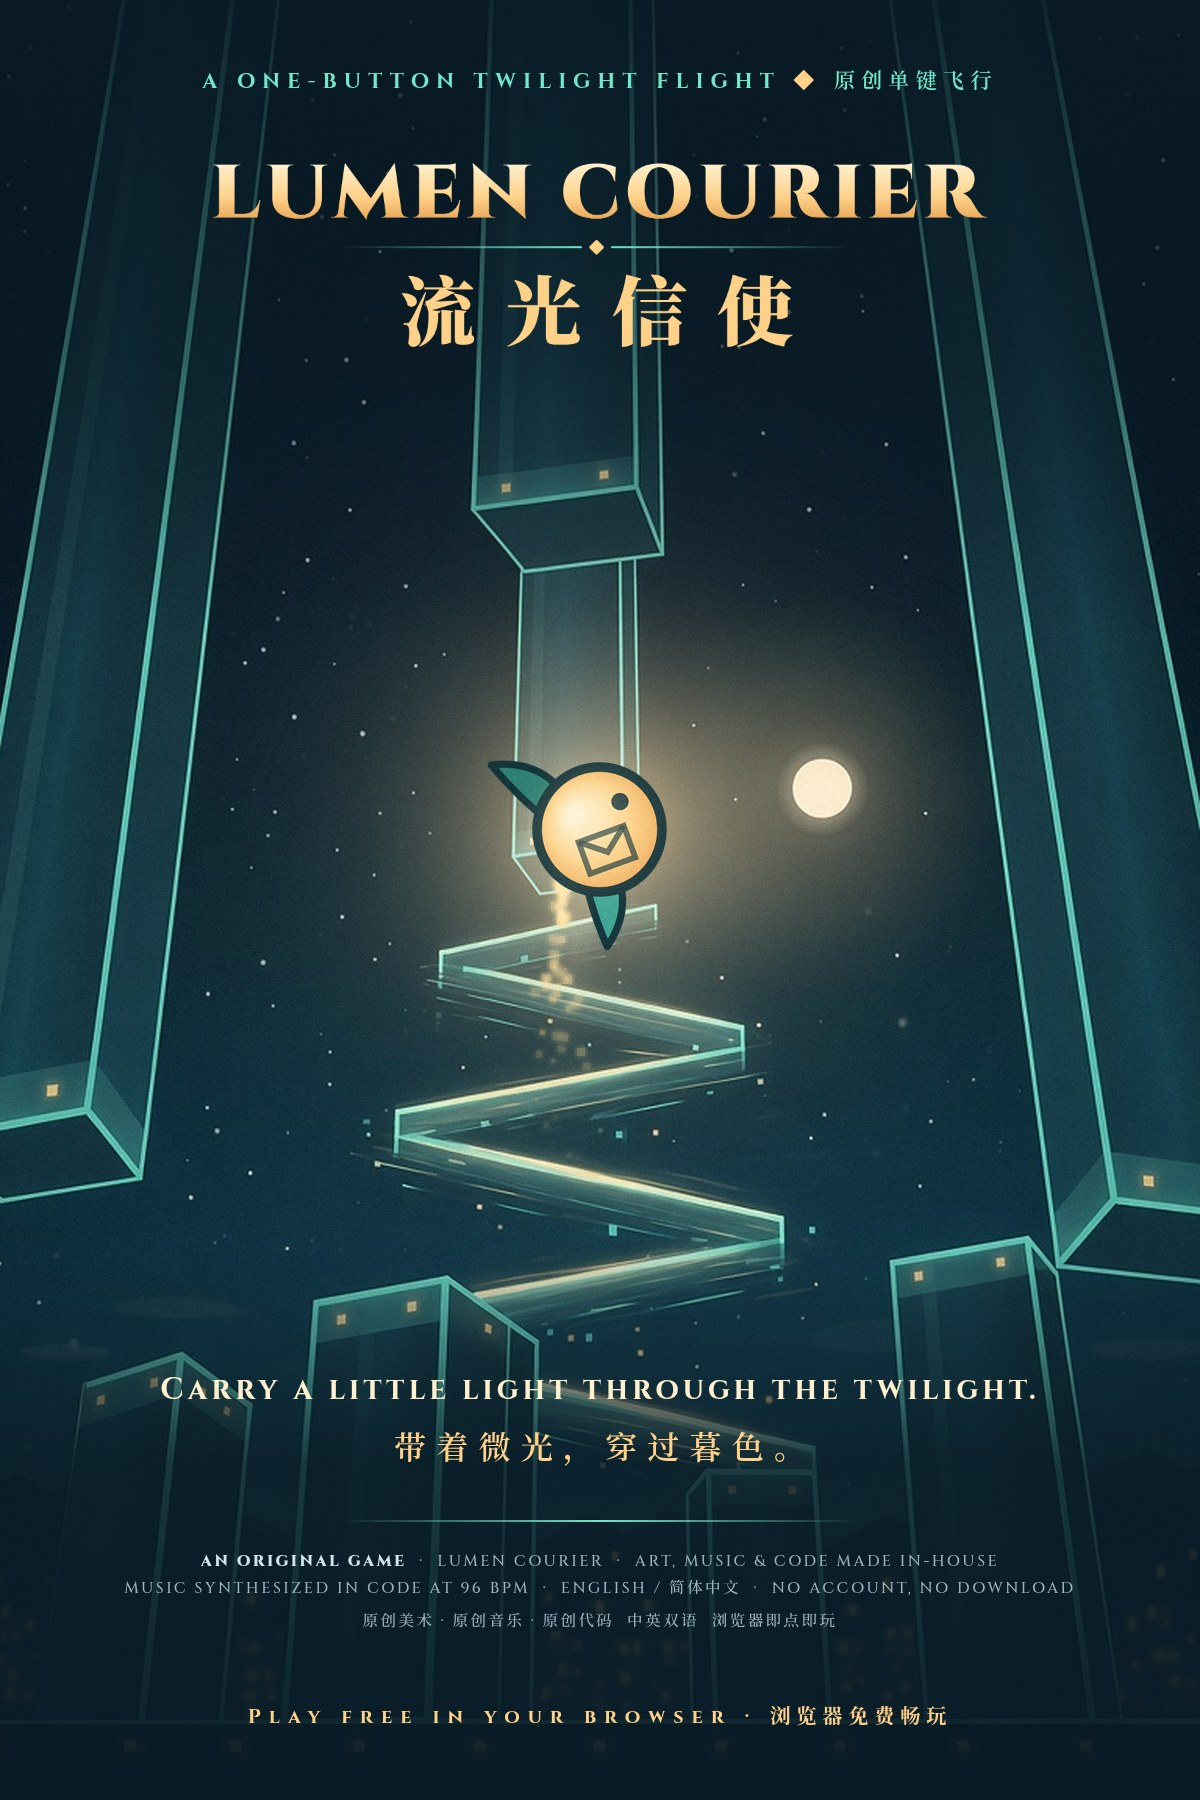
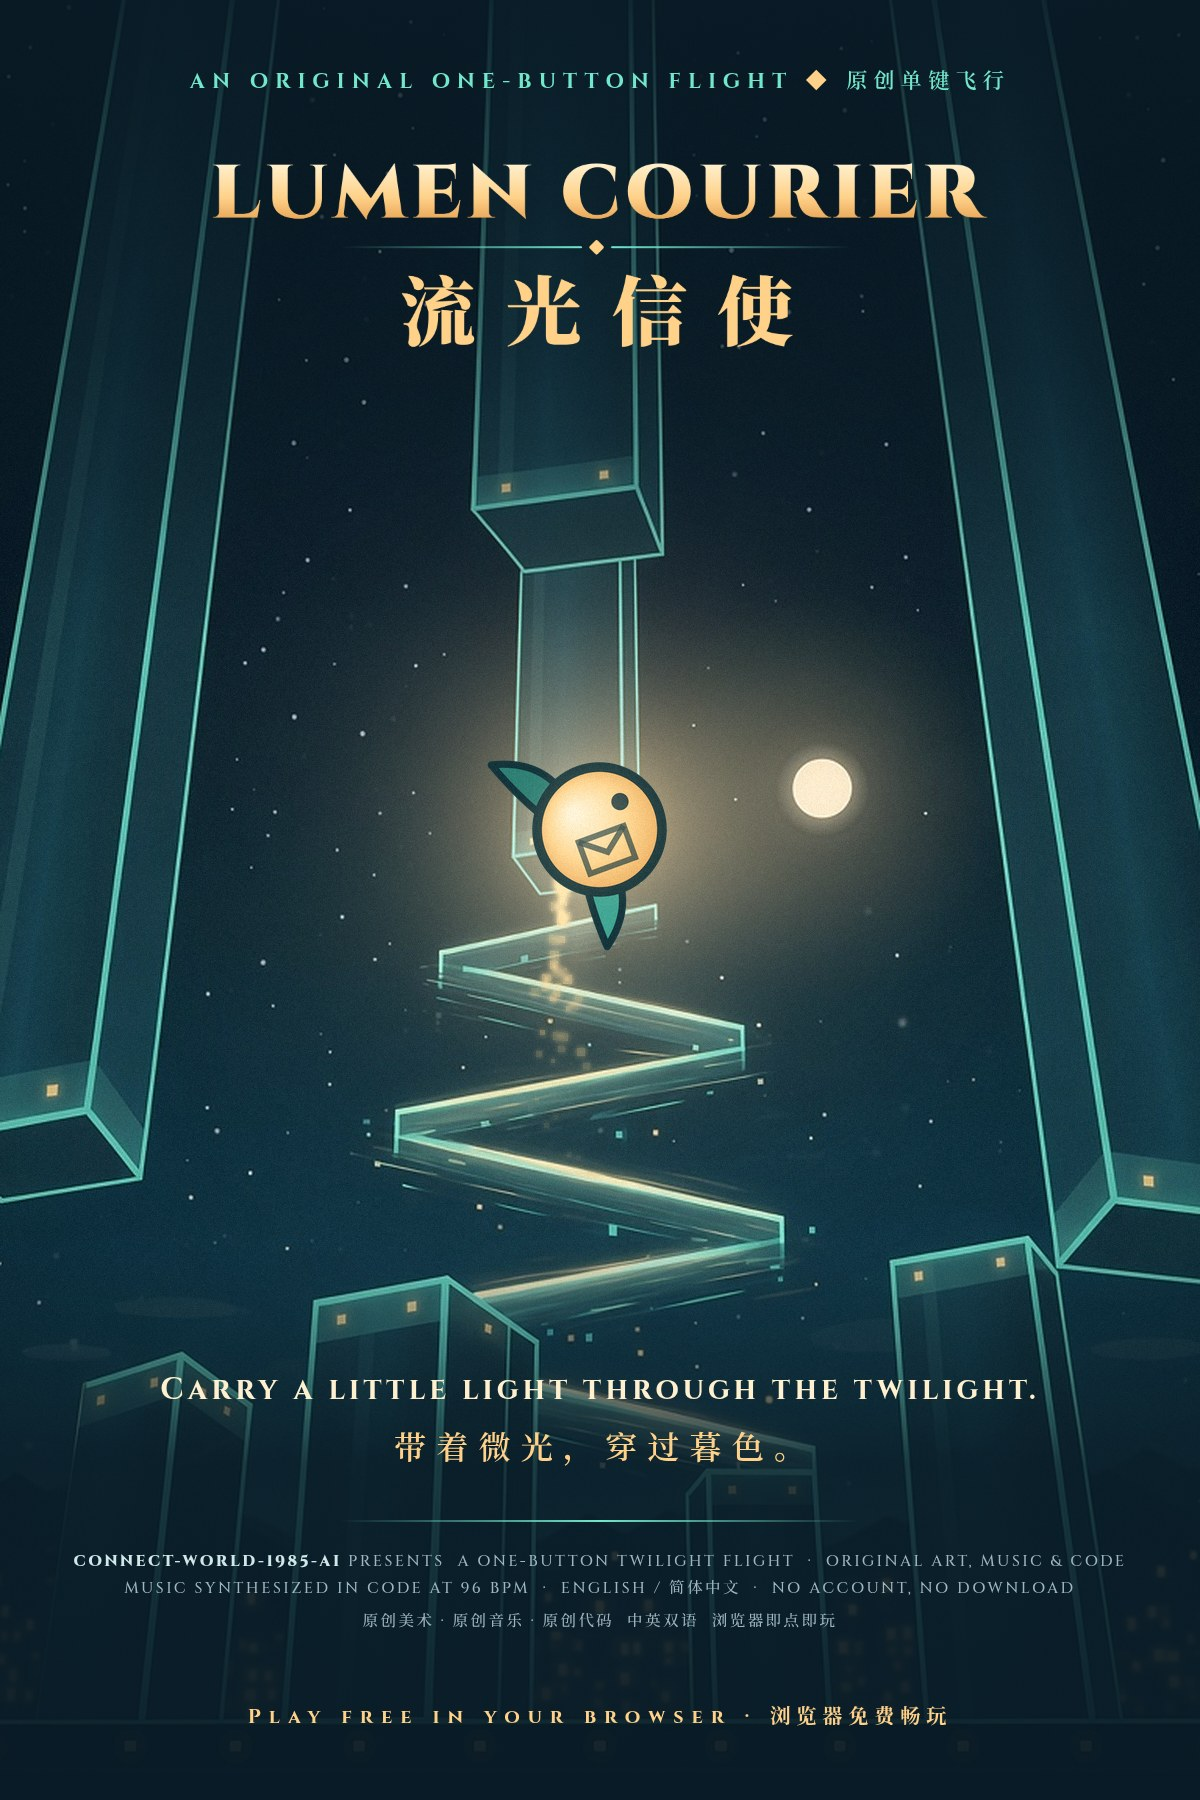
Restore pre-suspension credit: connect-world-1985-ai presents on poster 01 and the site footer (files from 301d22c)

diff --git a/verify.py b/verify.py
@@ -43,9 +43,6 @@ for name in runtime + site + ["play/tests.html", "play/tests.mjs"]:
     if name.endswith(".html"):
         assert not re.search(r'(?:src|href|poster)\s*=\s*[\"\']/', text), "Root asset path: " + name
         assert "2026-10-26-lumen-courier/" not in text, "Host-specific path: " + name
-    # Raymond will self-host: no Pages URL or account name in the shipped site.
-    if name in site:
-        assert not re.search(r"github\.io|connect-world", text, re.I), "Host or account name in site file: " + name
 mp4 = (ROOT / "media/trailer.mp4").stat().st_size
 assert mp4 <= 15 * 1024 * 1024, f"Trailer too large: {mp4}"
 cine = (ROOT / "media/cinematic-trailer.mp4").stat().st_size
